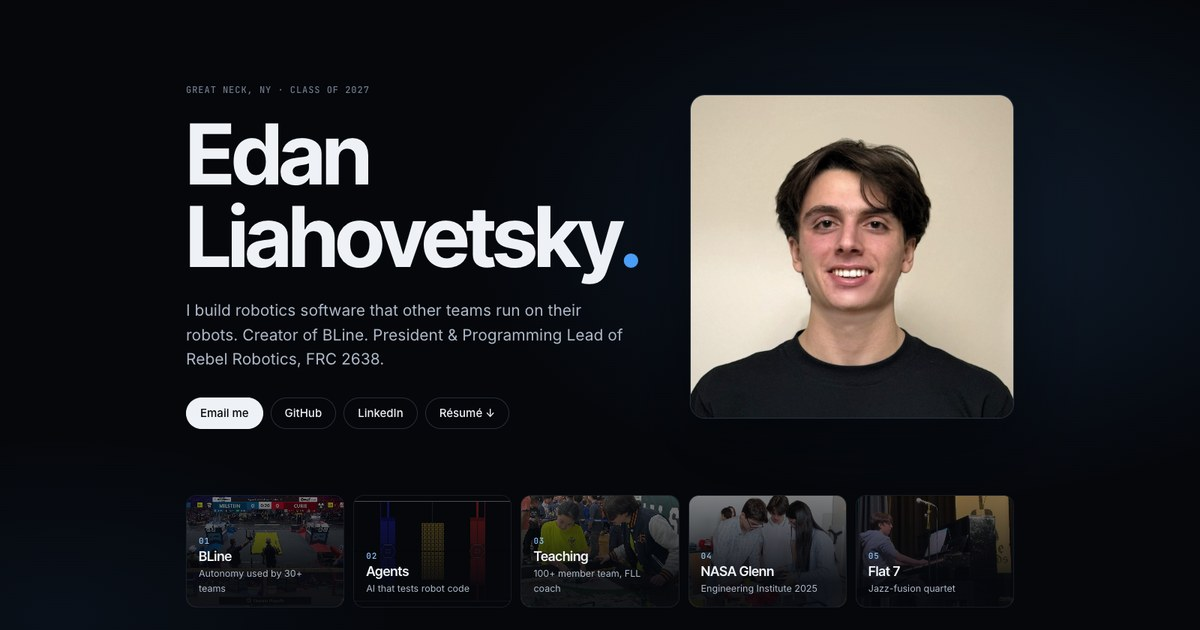
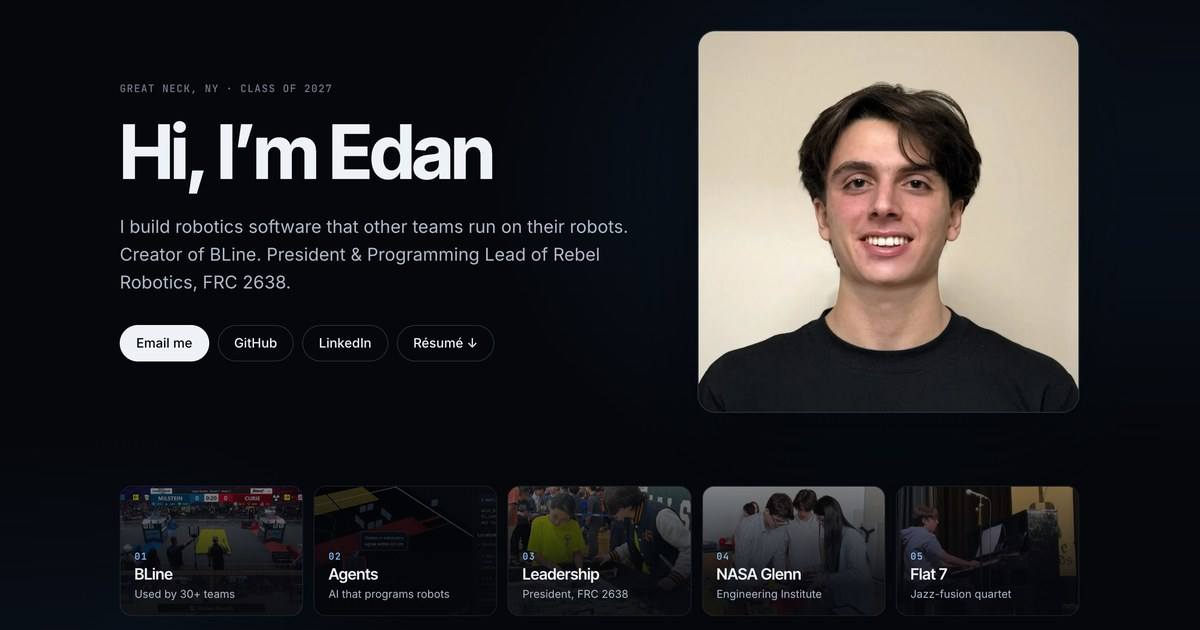
New link preview image showing the current hero

diff --git a/index.html b/index.html
@@ -11,7 +11,10 @@
   <meta property="og:title" content="Edan Liahovetsky">
   <meta property="og:description" content="Robotics software that other teams run on their robots. Creator of BLine.">
   <meta property="og:url" content="https://edanliahovetsky.github.io/">
-  <meta property="og:image" content="https://edanliahovetsky.github.io/assets/img/og.jpg">
+  <meta property="og:image" content="https://edanliahovetsky.github.io/assets/img/og.jpg?v=2">
+  <meta property="og:image:width" content="1200">
+  <meta property="og:image:height" content="630">
+  <meta property="og:image:alt" content="Edan Liahovetsky’s site: Hi, I’m Edan, with BLine, Agents, Leadership, NASA Glenn, and Flat 7">
   <meta name="twitter:card" content="summary_large_image">
   <link rel="icon" href="assets/img/favicon.svg" type="image/svg+xml">
   <link rel="preconnect" href="https://fonts.googleapis.com">
